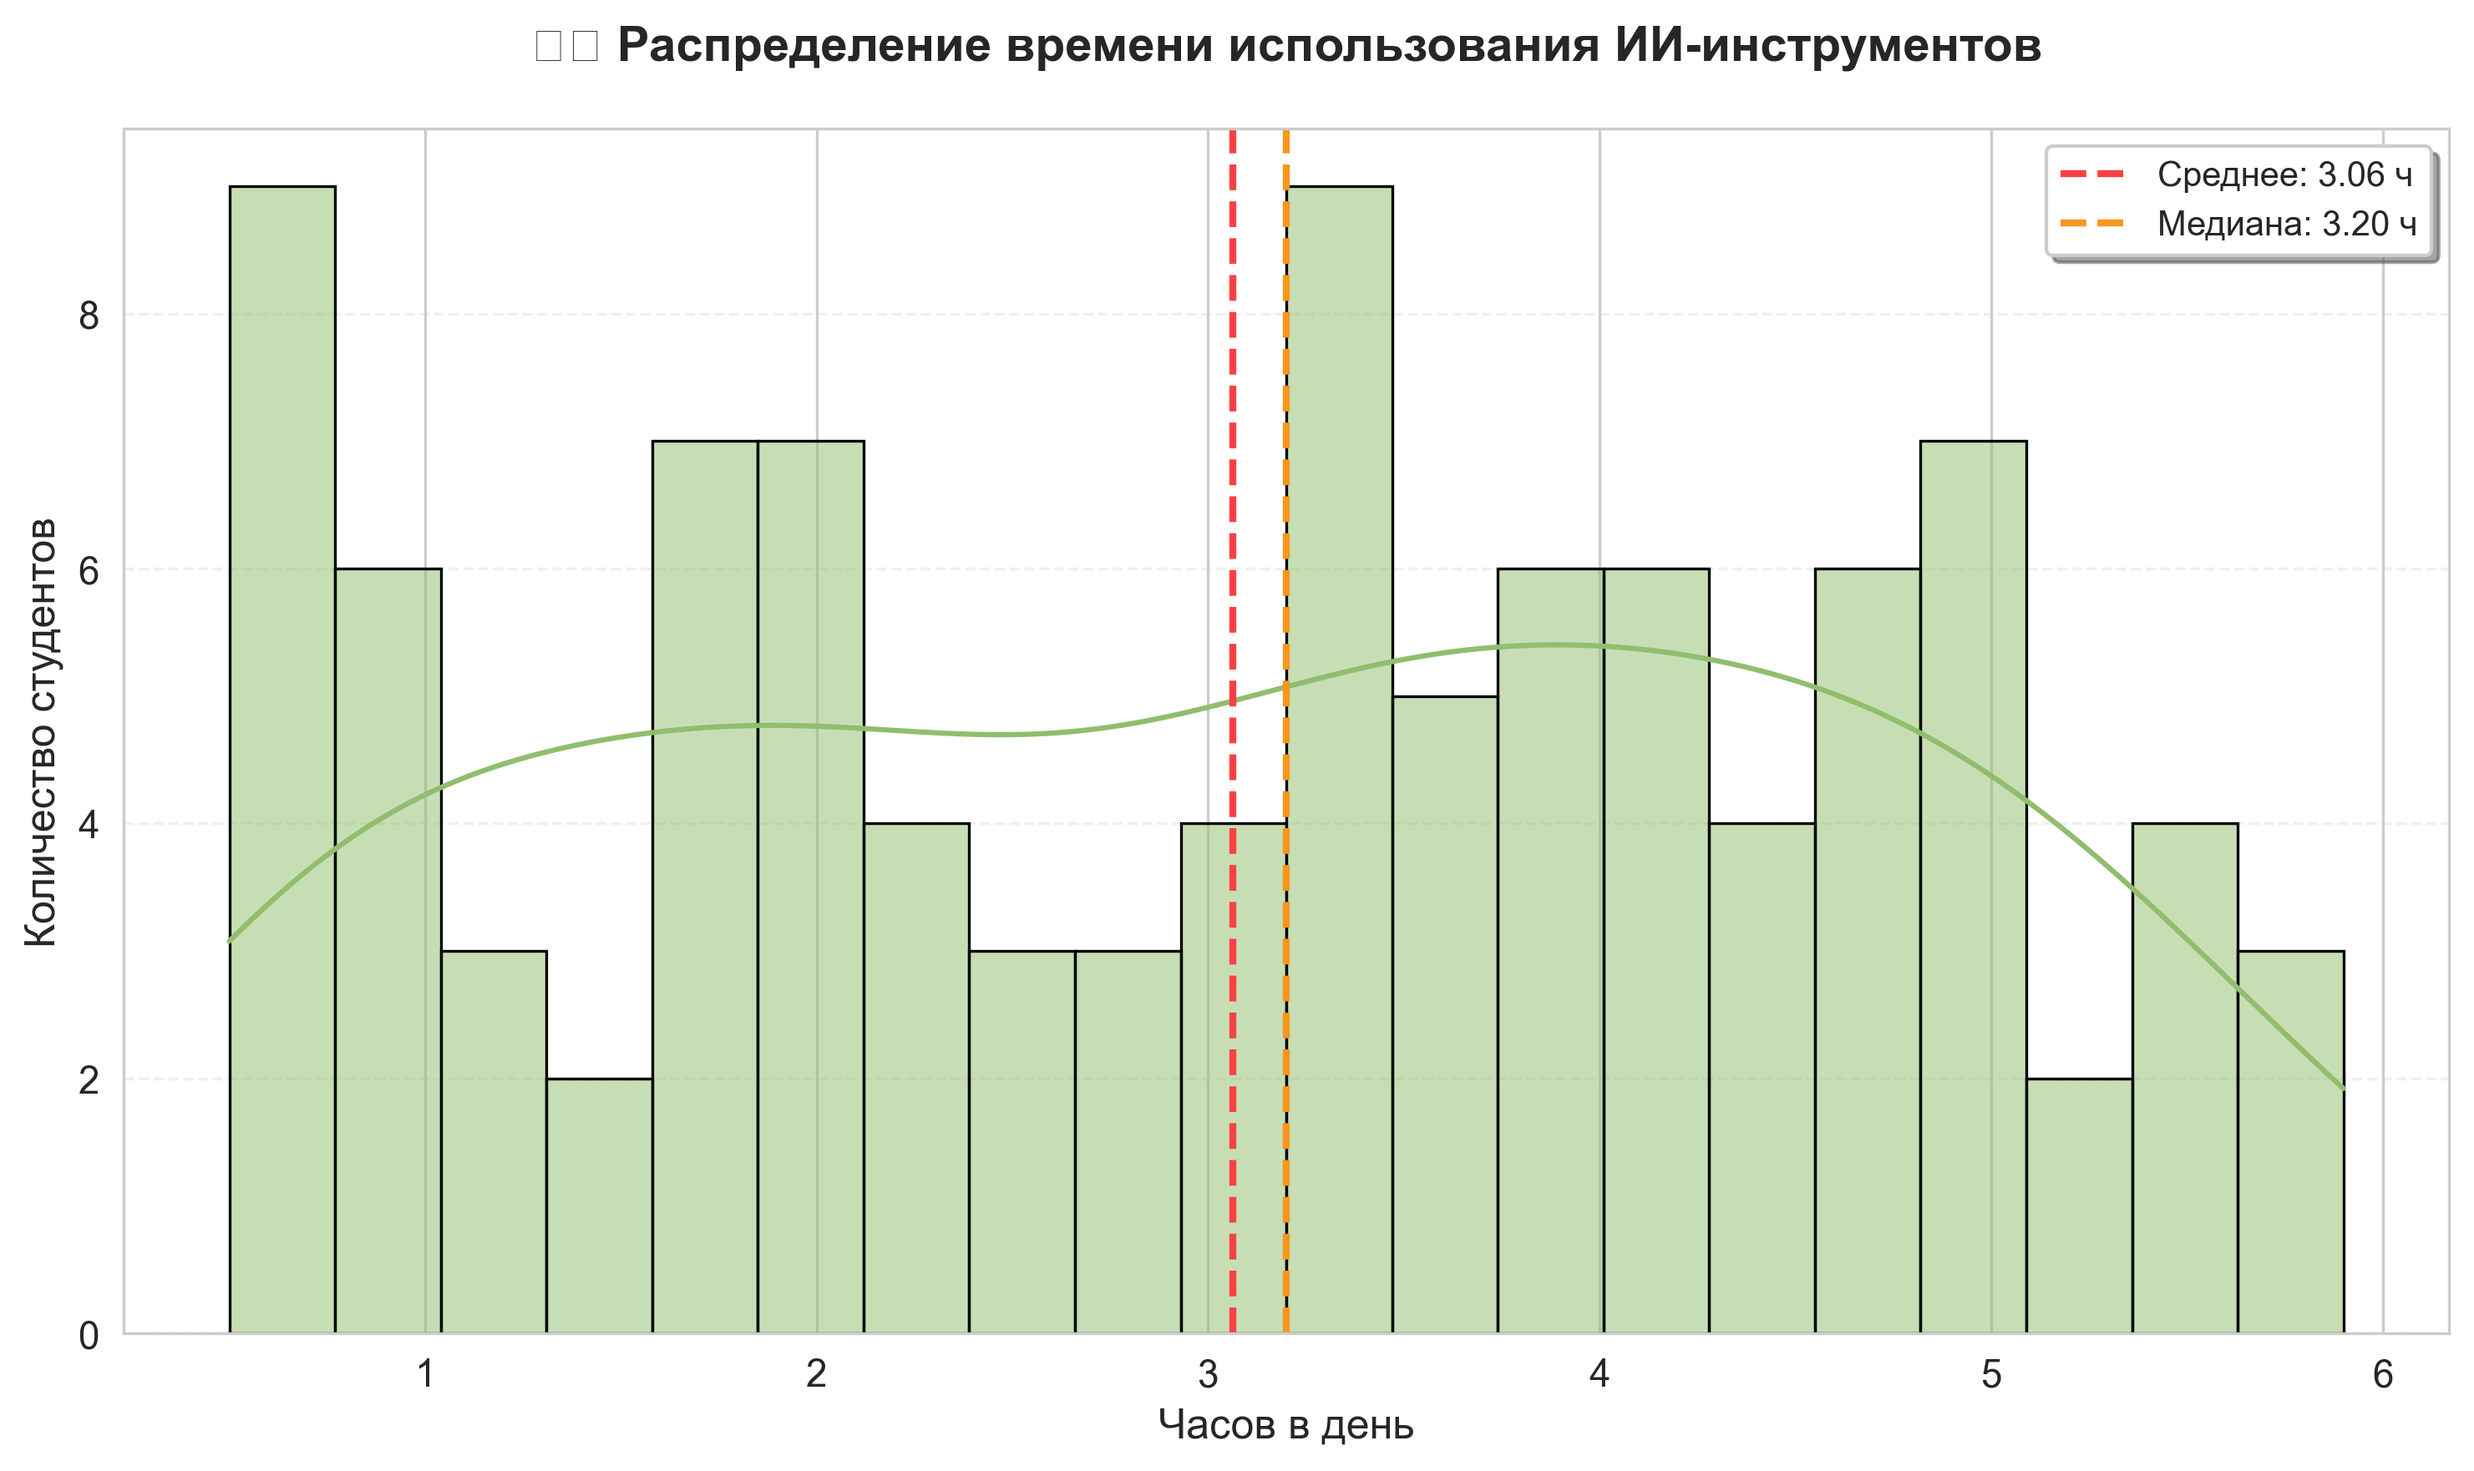
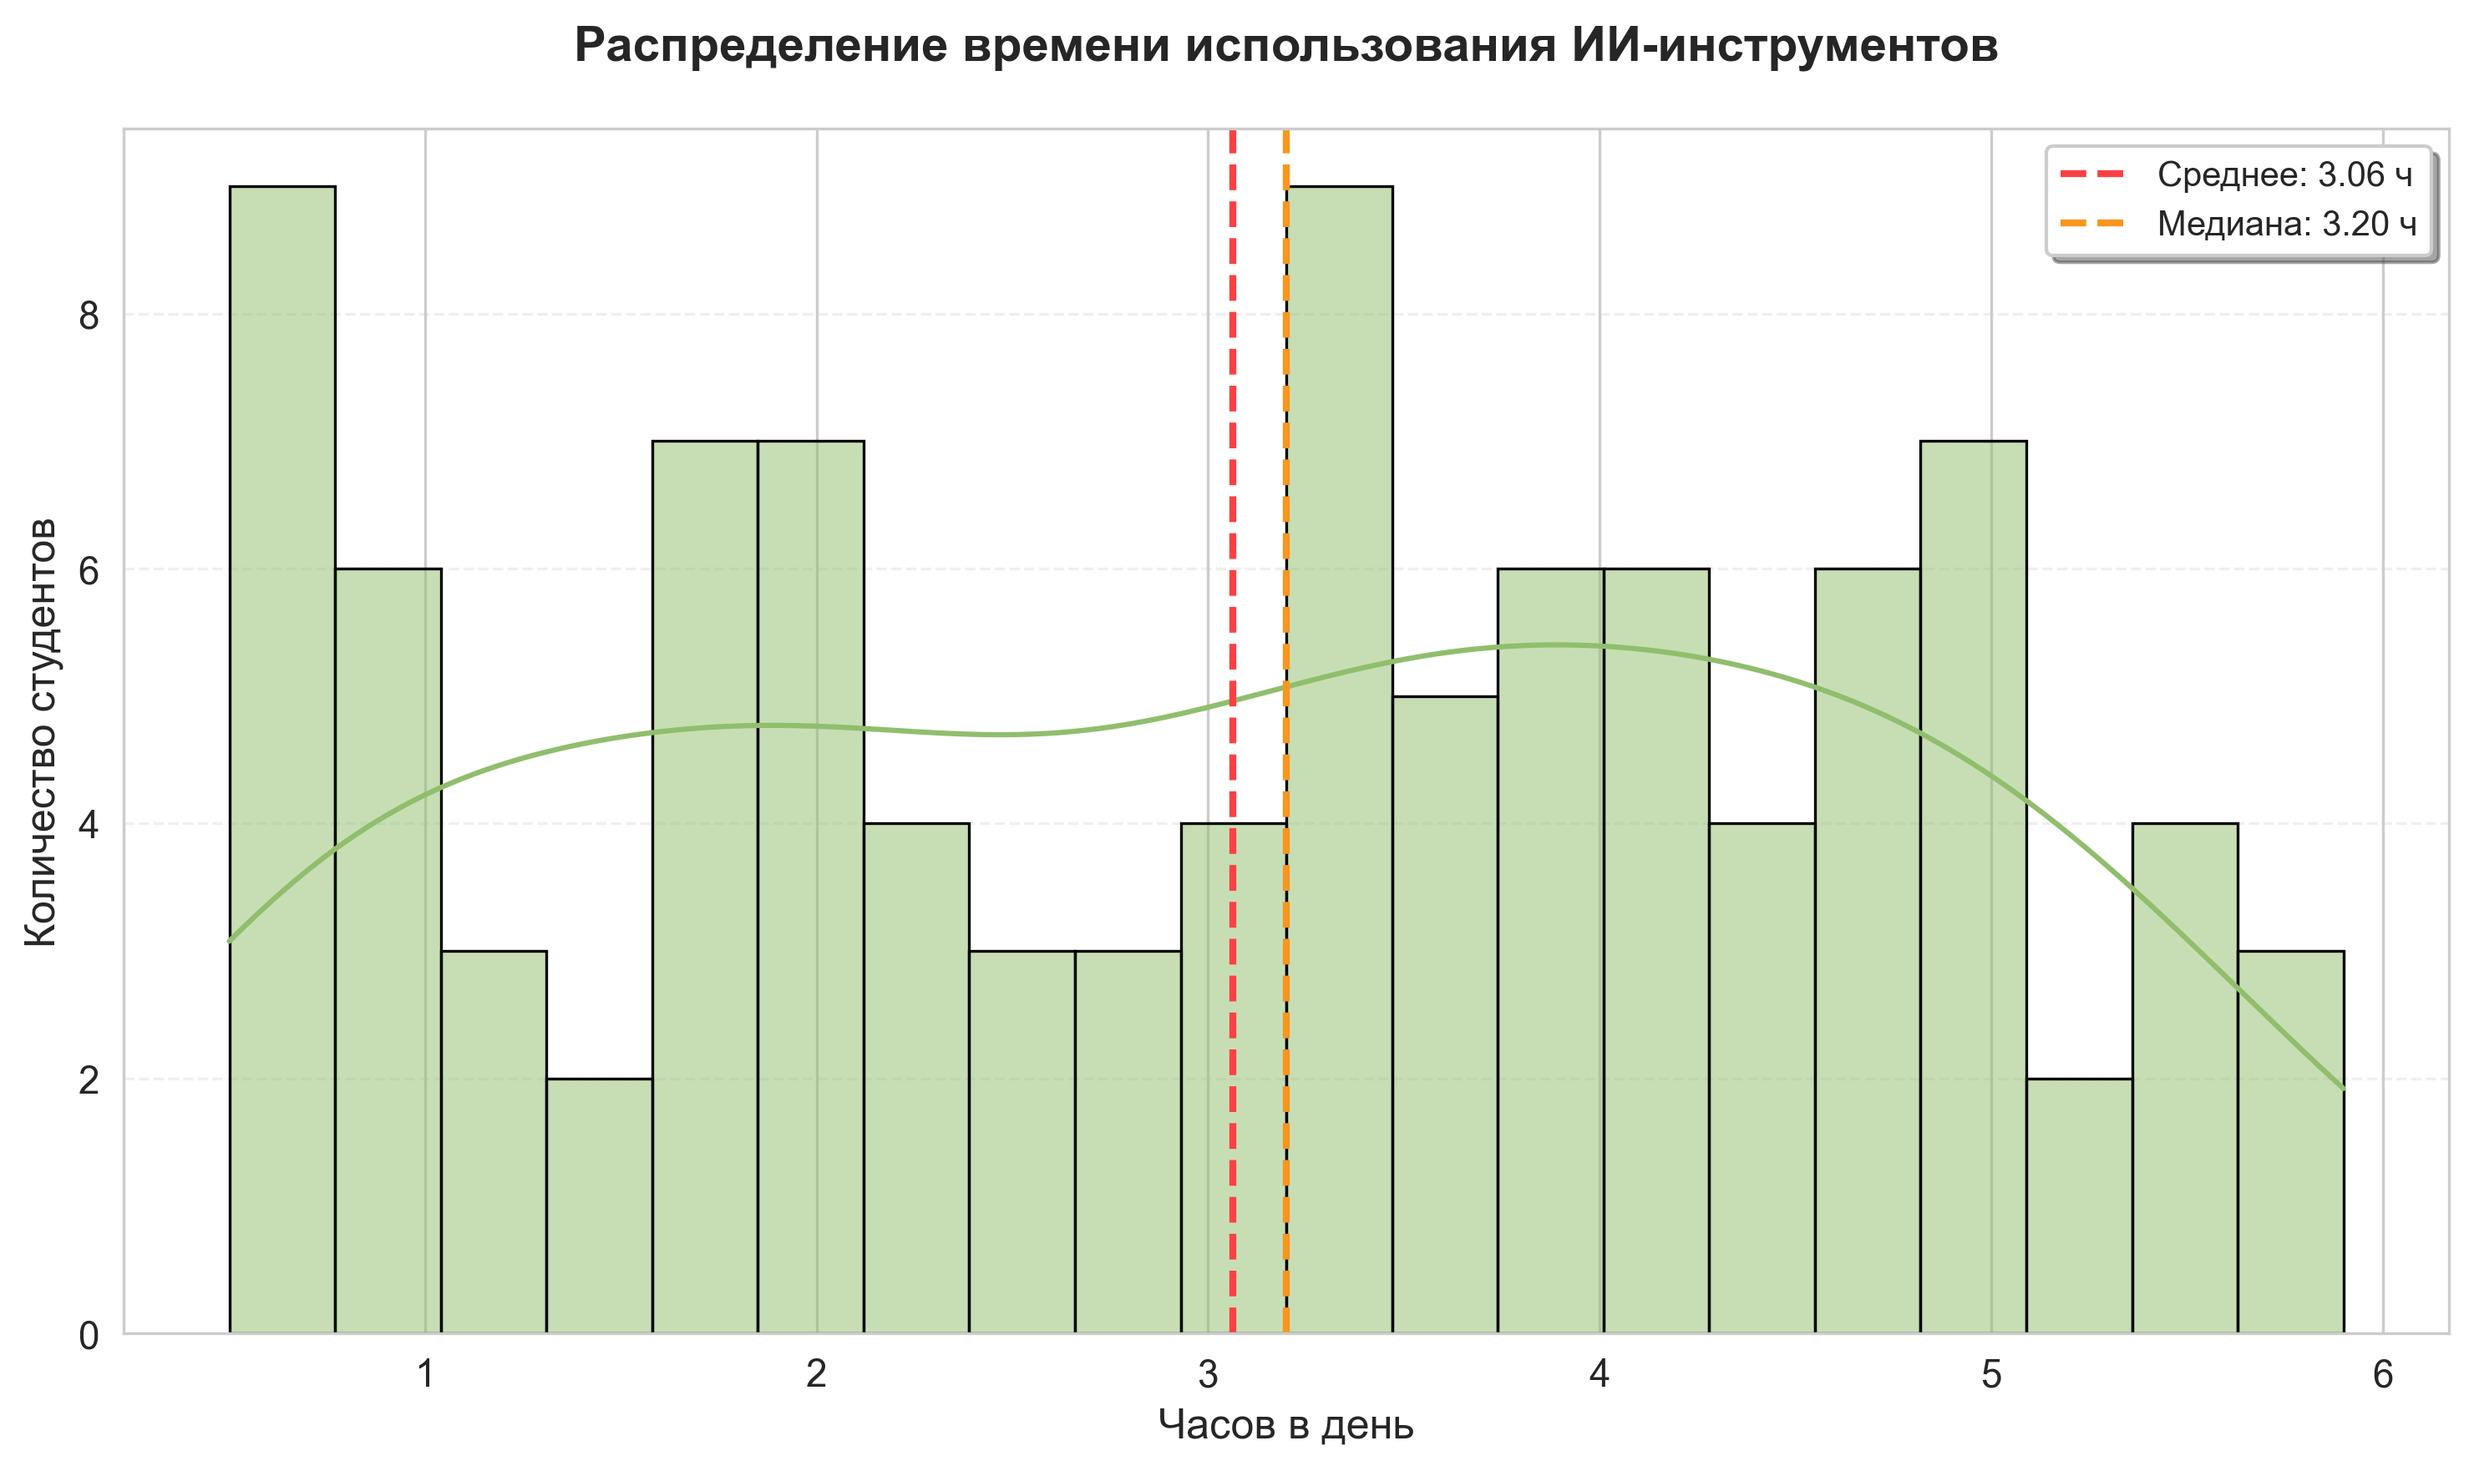
added satisfaction bar horizontal

Changed region(s): [[0.2174, 0.0, 0.8386, 0.0624]]

diff --git a/main.py b/main.py
@@ -347,7 +347,7 @@ plt.axvline(
 
 # Оформление: заголовок и подписи осей
 plt.title(
-    '⏱ Распределение времени использования ИИ-инструментов',
+    'Распределение времени использования ИИ-инструментов',
     fontsize=14,
     fontweight='bold',
     pad=20
@@ -374,5 +374,51 @@ plt.savefig(
 
 # Показываем график
 plt.show()
+
+
+
+
+# Горизонтальный барчарт
+plt.figure(figsize=(10, 6))
+
+# Данные с порядком
+sat_counts = df['Satisfaction_Level'].value_counts().reindex(['Low', 'Medium', 'High'])
+colors = ['#f3722c', '#f9c74f', '#90be6d']
+
+# Рисуем горизонтальные столбцы
+bars = plt.barh(
+    sat_counts.index,
+    sat_counts.values,
+    color=colors,
+    edgecolor='black',
+    linewidth=1.2
+)
+
+# Подписи столбцов
+for bar in bars:
+    width = bar.get_width()
+    pct = width / total * 100
+    plt.text(
+        width + 1,
+        bar.get_y() + bar.get_height()/2,
+        f'{int(width)} ({pct:.1f}%)',
+        va='center',
+        fontweight='bold',
+        fontsize=10
+    )
+
+# Оформление
+plt.title('Удовлетворённость использованием ИИ', fontsize=14, fontweight='bold', pad=20)
+plt.xlabel('Количество студентов', fontsize=12)
+plt.ylabel('')
+plt.xticks(fontsize=11)
+plt.grid(axis='x', alpha=0.3, linestyle='--')
+plt.tight_layout()
+
+plt.savefig('images/satisfaction_bar_h.png', dpi=300, bbox_inches='tight', facecolor='white')
+plt.show()
+
+
+
 
 
